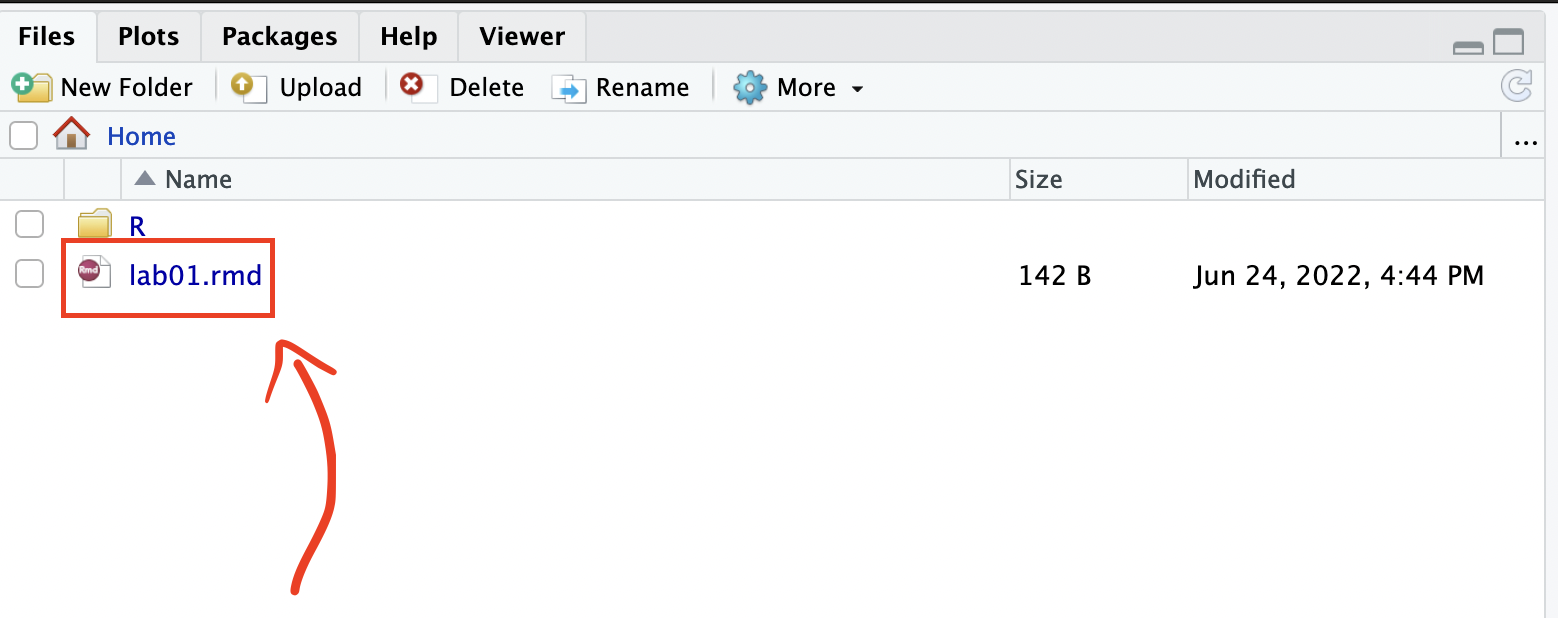
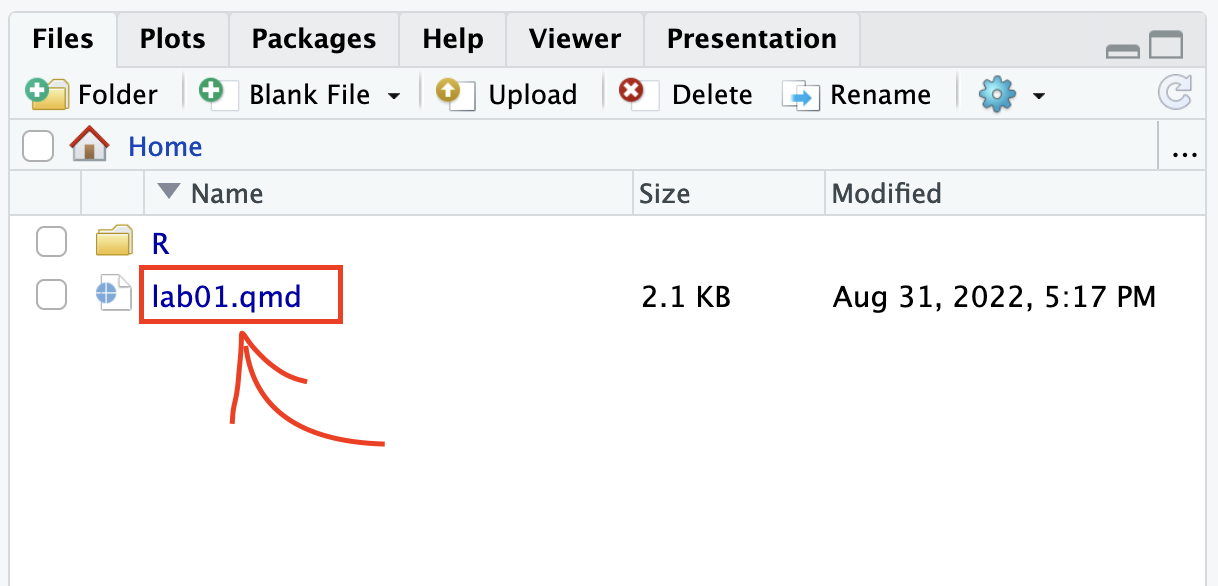
lab 01

diff --git a/public/static/labs/lab01.html b/public/static/labs/lab01.html
@@ -92,7 +92,6 @@ code span.wa { color: #60a0b0; font-weight: bold; font-style: italic; } /* Warni
 <link href="lab01_files/libs/bootstrap/bootstrap-icons.css" rel="stylesheet">
 <link href="lab01_files/libs/bootstrap/bootstrap.min.css" rel="stylesheet" id="quarto-bootstrap" data-mode="light">
 
-  <script src="https://cdn.jsdelivr.net/npm/mathjax@3/es5/tex-chtml-full.js" type="text/javascript"></script>
 
 <link rel="stylesheet" href="labs.css">
 </head>
@@ -150,19 +149,7 @@ code span.wa { color: #60a0b0; font-weight: bold; font-style: italic; } /* Warni
 <h3 class="anchored" data-anchor-id="yaml">YAML</h3>
 <p>The top portion of your Quarto Markdown file (aka <code>.qmd</code>), you’ll find three dashed lines. Between the dashed lines is called YAML. YAML stands for “YAML Ain’t Markup Language”. It is a human friendly data serialization standard for all programming languages. All you need to know is that this area is called the YAML (we will refer to it as such) and that it contains meta information about your document.</p>
 <p>Change the <code>author</code> name to your name and update the <code>date</code> with today’s date. Click the <code>render button</code> to render the document. What do you notice?</p>
-<div class="callout-note callout callout-style-default callout-captioned">
-<div class="callout-header d-flex align-content-center">
-<div class="callout-icon-container">
-<i class="callout-icon"></i>
-</div>
-<div class="callout-caption-container flex-fill">
-Note
-</div>
-</div>
-<div class="callout-body-container callout-body">
-<p>Notice in the YAML the output is set to “pdf”. In this course, all assignments <strong>must be submitted to gradescope as PDFs</strong>. To avoid issues that can occur while rendering, it is a good idea to render frequently. <strong>At least after every exercise</strong>.</p>
-</div>
-</div>
+<p>:::callout-note Notice in the YAML the output is set to “pdf”. In this course, all assignments <strong>must be submitted to gradescope as PDFs</strong>. To avoid issues that can occur while rendering, it is a good idea to render frequently. <strong>At least after every exercise</strong>. :::</p>
 </section>
 <section id="packages" class="level3">
 <h3 class="anchored" data-anchor-id="packages">Packages</h3>
@@ -171,23 +158,12 @@ Note
 <div class="sourceCode cell-code" id="cb2"><pre class="sourceCode r code-with-copy"><code class="sourceCode r"><span id="cb2-1"><a href="#cb2-1" aria-hidden="true" tabindex="-1"></a><span class="fu">library</span>(tidyverse) </span>
 <span id="cb2-2"><a href="#cb2-2" aria-hidden="true" tabindex="-1"></a><span class="fu">library</span>(datasauRus)</span></code><button title="Copy to Clipboard" class="code-copy-button"><i class="bi"></i></button></pre></div>
 </div>
-<div class="callout-warning callout callout-style-default callout-captioned">
-<div class="callout-header d-flex align-content-center">
-<div class="callout-icon-container">
-<i class="callout-icon"></i>
-</div>
-<div class="callout-caption-container flex-fill">
-Warning
-</div>
-</div>
-<div class="callout-body-container callout-body">
-<p>If you are using <code>R</code> on the container, packages we use should already be installed and only need to be <strong>loaded</strong> with the function <code>library()</code>. If you are using a local version of <code>R</code> you probably have to run the following code in the <strong>console</strong> to install the packages (one time only!)</p>
+<p>:::callout-warning If you are using <code>R</code> on the container, packages we use should already be installed and only need to be <strong>loaded</strong> with the function <code>library()</code>. If you are using a local version of <code>R</code> you probably have to run the following code in the <strong>console</strong> to install the packages (one time only!)</p>
 <div class="cell">
 <div class="sourceCode cell-code" id="cb3"><pre class="sourceCode r code-with-copy"><code class="sourceCode r"><span id="cb3-1"><a href="#cb3-1" aria-hidden="true" tabindex="-1"></a><span class="fu">install.packages</span>(<span class="st">"tidyverse"</span>)</span>
 <span id="cb3-2"><a href="#cb3-2" aria-hidden="true" tabindex="-1"></a><span class="fu">install.packages</span>(<span class="st">"datasauRus"</span>)</span></code><button title="Copy to Clipboard" class="code-copy-button"><i class="bi"></i></button></pre></div>
 </div>
-</div>
-</div>
+<p>:::</p>
 </section>
 </section>
 <section id="exercises" class="level2">
@@ -224,19 +200,7 @@ Warning
 </div>
 </div>
 <p>The original Datasaurus (dino) data was created by Alberto Cairo. The other Dozen were generated using simulated annealing and the process is described in the paper <em>Same Stats, Different Graphs: Generating data sets with Varied Appearance and Identical Statistics through Simulated Annealing</em> by Justin Matejka and George Fitzmaurice. In the paper, the authors simulate a variety of data sets that have the same summary statistics as the original Datasaurus but have very different data.</p>
-<div class="callout-note callout callout-style-default callout-captioned">
-<div class="callout-header d-flex align-content-center">
-<div class="callout-icon-container">
-<i class="callout-icon"></i>
-</div>
-<div class="callout-caption-container flex-fill">
-Note
-</div>
-</div>
-<div class="callout-body-container callout-body">
-<p>You can view the whole data frame by running the code <code>view(datasaurus_dozen)</code> in the console. This will open the data frame in a new tab. Try it out!</p>
-</div>
-</div>
+<p>:::callout-note You can view the whole data frame by running the code <code>view(datasaurus_dozen)</code> in the console. This will open the data frame in a new tab. Try it out! :::</p>
 <ol type="1">
 <li>Plot y vs.&nbsp;x for the dino data set. Then, calculate the correlation coefficient between x and y for this data set.</li>
 </ol>
@@ -257,7 +221,7 @@ Note
 <p><img src="lab01_files/figure-html/ggplot-dino-x-y-1.png" class="img-fluid" width="672"></p>
 </div>
 </div>
-<p>For the second part of this exercise, we need to calculate a summary statistic: the correlation coefficient. The correlation coefficient (<span class="math inline">\(r\)</span>) measures the strength and direction of the linear association between two variables. You will see that some of the pairs of variables we plot do not have a linear relationship between them. This is exactly why we want to visualize first: visualize to assess the form of the relationship, and calculate <span class="math inline">\(r\)</span> only if relevant.</p>
+<p>For the second part of this exercise, we need to calculate a summary statistic: the correlation coefficient. The correlation coefficient (<em>r</em>) measures the strength and direction of the linear association between two variables. You will see that some of the pairs of variables we plot do not have a linear relationship between them. This is exactly why we want to visualize first: visualize to assess the form of the relationship, and calculate <em>r</em> only if relevant.</p>
 <p>In this case, calculating a correlation coefficient really doesn’t make sense since the relationship between x and y is definitely not linear, but is instead more ‘dinosaur-esque’.</p>
 <p>For illustrative purposes only, let’s calculate the correlation coefficient between x and y.</p>
 <div class="cell">
@@ -271,7 +235,7 @@ Note
 </div>
 </div>
 <ol type="1">
-<li>Plot y vs.&nbsp;x for the star dataset. You can (and should) reuse code we introduced above, just replace the dataset name with the desired dataset. Then, calculate the correlation coefficient between x and y for this dataset. How does this value compare to the <span class="math inline">\(r\)</span> of dino?</li>
+<li>Plot y vs.&nbsp;x for the star dataset. You can (and should) reuse code we introduced above, just replace the dataset name with the desired dataset. Then, calculate the correlation coefficient between x and y for this dataset. How does this value compare to the <em>r</em> of dino?</li>
 </ol>
 <ul>
 <li>To begin, edit the name of the code chunks from <code>ex-3-1</code> and <code>ex-3-2</code> to something more meaningful, e.g: <code>plot-star</code> and <code>star-correlation</code> respectively.</li>

diff --git a/static/static/labs/lab01.html b/static/static/labs/lab01.html
@@ -92,7 +92,6 @@ code span.wa { color: #60a0b0; font-weight: bold; font-style: italic; } /* Warni
 <link href="lab01_files/libs/bootstrap/bootstrap-icons.css" rel="stylesheet">
 <link href="lab01_files/libs/bootstrap/bootstrap.min.css" rel="stylesheet" id="quarto-bootstrap" data-mode="light">
 
-  <script src="https://cdn.jsdelivr.net/npm/mathjax@3/es5/tex-chtml-full.js" type="text/javascript"></script>
 
 <link rel="stylesheet" href="labs.css">
 </head>
@@ -150,19 +149,7 @@ code span.wa { color: #60a0b0; font-weight: bold; font-style: italic; } /* Warni
 <h3 class="anchored" data-anchor-id="yaml">YAML</h3>
 <p>The top portion of your Quarto Markdown file (aka <code>.qmd</code>), you’ll find three dashed lines. Between the dashed lines is called YAML. YAML stands for “YAML Ain’t Markup Language”. It is a human friendly data serialization standard for all programming languages. All you need to know is that this area is called the YAML (we will refer to it as such) and that it contains meta information about your document.</p>
 <p>Change the <code>author</code> name to your name and update the <code>date</code> with today’s date. Click the <code>render button</code> to render the document. What do you notice?</p>
-<div class="callout-note callout callout-style-default callout-captioned">
-<div class="callout-header d-flex align-content-center">
-<div class="callout-icon-container">
-<i class="callout-icon"></i>
-</div>
-<div class="callout-caption-container flex-fill">
-Note
-</div>
-</div>
-<div class="callout-body-container callout-body">
-<p>Notice in the YAML the output is set to “pdf”. In this course, all assignments <strong>must be submitted to gradescope as PDFs</strong>. To avoid issues that can occur while rendering, it is a good idea to render frequently. <strong>At least after every exercise</strong>.</p>
-</div>
-</div>
+<p>:::callout-note Notice in the YAML the output is set to “pdf”. In this course, all assignments <strong>must be submitted to gradescope as PDFs</strong>. To avoid issues that can occur while rendering, it is a good idea to render frequently. <strong>At least after every exercise</strong>. :::</p>
 </section>
 <section id="packages" class="level3">
 <h3 class="anchored" data-anchor-id="packages">Packages</h3>
@@ -171,23 +158,12 @@ Note
 <div class="sourceCode cell-code" id="cb2"><pre class="sourceCode r code-with-copy"><code class="sourceCode r"><span id="cb2-1"><a href="#cb2-1" aria-hidden="true" tabindex="-1"></a><span class="fu">library</span>(tidyverse) </span>
 <span id="cb2-2"><a href="#cb2-2" aria-hidden="true" tabindex="-1"></a><span class="fu">library</span>(datasauRus)</span></code><button title="Copy to Clipboard" class="code-copy-button"><i class="bi"></i></button></pre></div>
 </div>
-<div class="callout-warning callout callout-style-default callout-captioned">
-<div class="callout-header d-flex align-content-center">
-<div class="callout-icon-container">
-<i class="callout-icon"></i>
-</div>
-<div class="callout-caption-container flex-fill">
-Warning
-</div>
-</div>
-<div class="callout-body-container callout-body">
-<p>If you are using <code>R</code> on the container, packages we use should already be installed and only need to be <strong>loaded</strong> with the function <code>library()</code>. If you are using a local version of <code>R</code> you probably have to run the following code in the <strong>console</strong> to install the packages (one time only!)</p>
+<p>:::callout-warning If you are using <code>R</code> on the container, packages we use should already be installed and only need to be <strong>loaded</strong> with the function <code>library()</code>. If you are using a local version of <code>R</code> you probably have to run the following code in the <strong>console</strong> to install the packages (one time only!)</p>
 <div class="cell">
 <div class="sourceCode cell-code" id="cb3"><pre class="sourceCode r code-with-copy"><code class="sourceCode r"><span id="cb3-1"><a href="#cb3-1" aria-hidden="true" tabindex="-1"></a><span class="fu">install.packages</span>(<span class="st">"tidyverse"</span>)</span>
 <span id="cb3-2"><a href="#cb3-2" aria-hidden="true" tabindex="-1"></a><span class="fu">install.packages</span>(<span class="st">"datasauRus"</span>)</span></code><button title="Copy to Clipboard" class="code-copy-button"><i class="bi"></i></button></pre></div>
 </div>
-</div>
-</div>
+<p>:::</p>
 </section>
 </section>
 <section id="exercises" class="level2">
@@ -224,19 +200,7 @@ Warning
 </div>
 </div>
 <p>The original Datasaurus (dino) data was created by Alberto Cairo. The other Dozen were generated using simulated annealing and the process is described in the paper <em>Same Stats, Different Graphs: Generating data sets with Varied Appearance and Identical Statistics through Simulated Annealing</em> by Justin Matejka and George Fitzmaurice. In the paper, the authors simulate a variety of data sets that have the same summary statistics as the original Datasaurus but have very different data.</p>
-<div class="callout-note callout callout-style-default callout-captioned">
-<div class="callout-header d-flex align-content-center">
-<div class="callout-icon-container">
-<i class="callout-icon"></i>
-</div>
-<div class="callout-caption-container flex-fill">
-Note
-</div>
-</div>
-<div class="callout-body-container callout-body">
-<p>You can view the whole data frame by running the code <code>view(datasaurus_dozen)</code> in the console. This will open the data frame in a new tab. Try it out!</p>
-</div>
-</div>
+<p>:::callout-note You can view the whole data frame by running the code <code>view(datasaurus_dozen)</code> in the console. This will open the data frame in a new tab. Try it out! :::</p>
 <ol type="1">
 <li>Plot y vs.&nbsp;x for the dino data set. Then, calculate the correlation coefficient between x and y for this data set.</li>
 </ol>
@@ -257,7 +221,7 @@ Note
 <p><img src="lab01_files/figure-html/ggplot-dino-x-y-1.png" class="img-fluid" width="672"></p>
 </div>
 </div>
-<p>For the second part of this exercise, we need to calculate a summary statistic: the correlation coefficient. The correlation coefficient (<span class="math inline">\(r\)</span>) measures the strength and direction of the linear association between two variables. You will see that some of the pairs of variables we plot do not have a linear relationship between them. This is exactly why we want to visualize first: visualize to assess the form of the relationship, and calculate <span class="math inline">\(r\)</span> only if relevant.</p>
+<p>For the second part of this exercise, we need to calculate a summary statistic: the correlation coefficient. The correlation coefficient (<em>r</em>) measures the strength and direction of the linear association between two variables. You will see that some of the pairs of variables we plot do not have a linear relationship between them. This is exactly why we want to visualize first: visualize to assess the form of the relationship, and calculate <em>r</em> only if relevant.</p>
 <p>In this case, calculating a correlation coefficient really doesn’t make sense since the relationship between x and y is definitely not linear, but is instead more ‘dinosaur-esque’.</p>
 <p>For illustrative purposes only, let’s calculate the correlation coefficient between x and y.</p>
 <div class="cell">
@@ -271,7 +235,7 @@ Note
 </div>
 </div>
 <ol type="1">
-<li>Plot y vs.&nbsp;x for the star dataset. You can (and should) reuse code we introduced above, just replace the dataset name with the desired dataset. Then, calculate the correlation coefficient between x and y for this dataset. How does this value compare to the <span class="math inline">\(r\)</span> of dino?</li>
+<li>Plot y vs.&nbsp;x for the star dataset. You can (and should) reuse code we introduced above, just replace the dataset name with the desired dataset. Then, calculate the correlation coefficient between x and y for this dataset. How does this value compare to the <em>r</em> of dino?</li>
 </ol>
 <ul>
 <li>To begin, edit the name of the code chunks from <code>ex-3-1</code> and <code>ex-3-2</code> to something more meaningful, e.g: <code>plot-star</code> and <code>star-correlation</code> respectively.</li>

diff --git a/public/static/slides/lab-01-slides.html b/public/static/slides/lab-01-slides.html
@@ -3,7 +3,7 @@
   <head>
     <title>Welcome to STA 101 Labs!</title>
     <meta charset="utf-8" />
-    <meta name="date" content="2022-06-28" />
+    <meta name="date" content="2022-09-02" />
     <script src="libs/header-attrs-2.11/header-attrs.js"></script>
     <link rel="stylesheet" href="xaringan-themer-2.css" type="text/css" />
     <link rel="stylesheet" href="slides.css" type="text/css" />
@@ -13,7 +13,7 @@
 class: center, middle, inverse, title-slide
 
 # Welcome to STA 101 Labs!
-### June 28, 2022
+### September 2, 2022
 
 ---
 
@@ -33,7 +33,7 @@ class: center, middle, inverse, title-slide
 
 - Work on the lab assignment (you can work with others but your submission must be your own)
 
-- Lab instructions posted in the [schedule](https://sta101.github.io/static/schedule/schedule.html) on the course website.
+- Lab instructions posted in the [schedule](https://sta101-fa22.netlify.app/static/schedule/schedule.html) on the course website.
 
 - Start each lab by opening RStudio and the today's lab on the schedule.
   
@@ -41,9 +41,9 @@ class: center, middle, inverse, title-slide
 
 ## Tips
 
-- You do not have to finish the lab in class, they will always be due three to four days later (see the specific due date at the top of each lab assignment).
+- You do not have to finish the lab in class, they will always be due six days later (see the specific due date at the top of each lab assignment).
 
-- One work strategy is to get through portions that you think will be most challenging (which initially might be the coding component) during lab when I can help you on the spot and leave the narrative writing until later.
+- One work strategy is to get through portions that you think will be most challenging (which initially might be the coding component) during lab when we can help you on the spot and leave the narrative writing until later.
 
 - Do not pressure each other to finish early; use the time wisely to really learn the material and produce a quality report.
 
@@ -61,16 +61,16 @@ class: middle, center
 
 - Open RStudio [via container](https://cmgr.oit.duke.edu/containers) or [download R](https://cran.r-project.org/ ) and [RStudio](https://www.rstudio.com/products/rstudio/download/#download ) locally.
 
-- Download the lab template `.Rmd` by running 
+- Download the lab template `.qmd` by running 
 ```
-download.file("https://sta101.github.io/static/labs/lab01_template.Rmd",
-destfile = "lab01.rmd")
+download.file("https://sta101.netlify.app/static/labs/lab01_template.qmd",
+destfile = "lab01.qmd")
 ```
 in the console.
 
-- Knit document and produce PDF 
+- Render the document and produce PDF 
 
-- Update name and date in YAML and knit again.
+- Update name and date in YAML and render again.
   
 ---
 

diff --git a/static/static/slides/lab-01-slides.html b/static/static/slides/lab-01-slides.html
@@ -3,7 +3,7 @@
   <head>
     <title>Welcome to STA 101 Labs!</title>
     <meta charset="utf-8" />
-    <meta name="date" content="2022-06-28" />
+    <meta name="date" content="2022-09-02" />
     <script src="libs/header-attrs-2.11/header-attrs.js"></script>
     <link rel="stylesheet" href="xaringan-themer-2.css" type="text/css" />
     <link rel="stylesheet" href="slides.css" type="text/css" />
@@ -13,7 +13,7 @@
 class: center, middle, inverse, title-slide
 
 # Welcome to STA 101 Labs!
-### June 28, 2022
+### September 2, 2022
 
 ---
 
@@ -33,7 +33,7 @@ class: center, middle, inverse, title-slide
 
 - Work on the lab assignment (you can work with others but your submission must be your own)
 
-- Lab instructions posted in the [schedule](https://sta101.github.io/static/schedule/schedule.html) on the course website.
+- Lab instructions posted in the [schedule](https://sta101-fa22.netlify.app/static/schedule/schedule.html) on the course website.
 
 - Start each lab by opening RStudio and the today's lab on the schedule.
   
@@ -41,9 +41,9 @@ class: center, middle, inverse, title-slide
 
 ## Tips
 
-- You do not have to finish the lab in class, they will always be due three to four days later (see the specific due date at the top of each lab assignment).
+- You do not have to finish the lab in class, they will always be due six days later (see the specific due date at the top of each lab assignment).
 
-- One work strategy is to get through portions that you think will be most challenging (which initially might be the coding component) during lab when I can help you on the spot and leave the narrative writing until later.
+- One work strategy is to get through portions that you think will be most challenging (which initially might be the coding component) during lab when we can help you on the spot and leave the narrative writing until later.
 
 - Do not pressure each other to finish early; use the time wisely to really learn the material and produce a quality report.
 
@@ -61,16 +61,16 @@ class: middle, center
 
 - Open RStudio [via container](https://cmgr.oit.duke.edu/containers) or [download R](https://cran.r-project.org/ ) and [RStudio](https://www.rstudio.com/products/rstudio/download/#download ) locally.
 
-- Download the lab template `.Rmd` by running 
+- Download the lab template `.qmd` by running 
 ```
-download.file("https://sta101.github.io/static/labs/lab01_template.Rmd",
-destfile = "lab01.rmd")
+download.file("https://sta101.netlify.app/static/labs/lab01_template.qmd",
+destfile = "lab01.qmd")
 ```
 in the console.
 
-- Knit document and produce PDF 
+- Render the document and produce PDF 
 
-- Update name and date in YAML and knit again.
+- Update name and date in YAML and render again.
   
 ---
 

diff --git a/public/static/schedule/schedule.html b/public/static/schedule/schedule.html
@@ -1866,7 +1866,7 @@ frequently.</p>
 <td align="left">Hello R!</td>
 <td align="left"></td>
 <td align="left"></td>
-<td align="left">lab 1</td>
+<td align="left"><a href="/static/labs/lab01.html">lab 1</a>,   <a href="/static/slides/lab-01-slides.html">💻</a></td>
 <td align="left"></td>
 <td align="left"></td>
 </tr>

diff --git a/static/static/schedule/schedule.html b/static/static/schedule/schedule.html
@@ -1866,7 +1866,7 @@ frequently.</p>
 <td align="left">Hello R!</td>
 <td align="left"></td>
 <td align="left"></td>
-<td align="left">lab 1</td>
+<td align="left"><a href="/static/labs/lab01.html">lab 1</a>,   <a href="/static/slides/lab-01-slides.html">💻</a></td>
 <td align="left"></td>
 <td align="left"></td>
 </tr>
